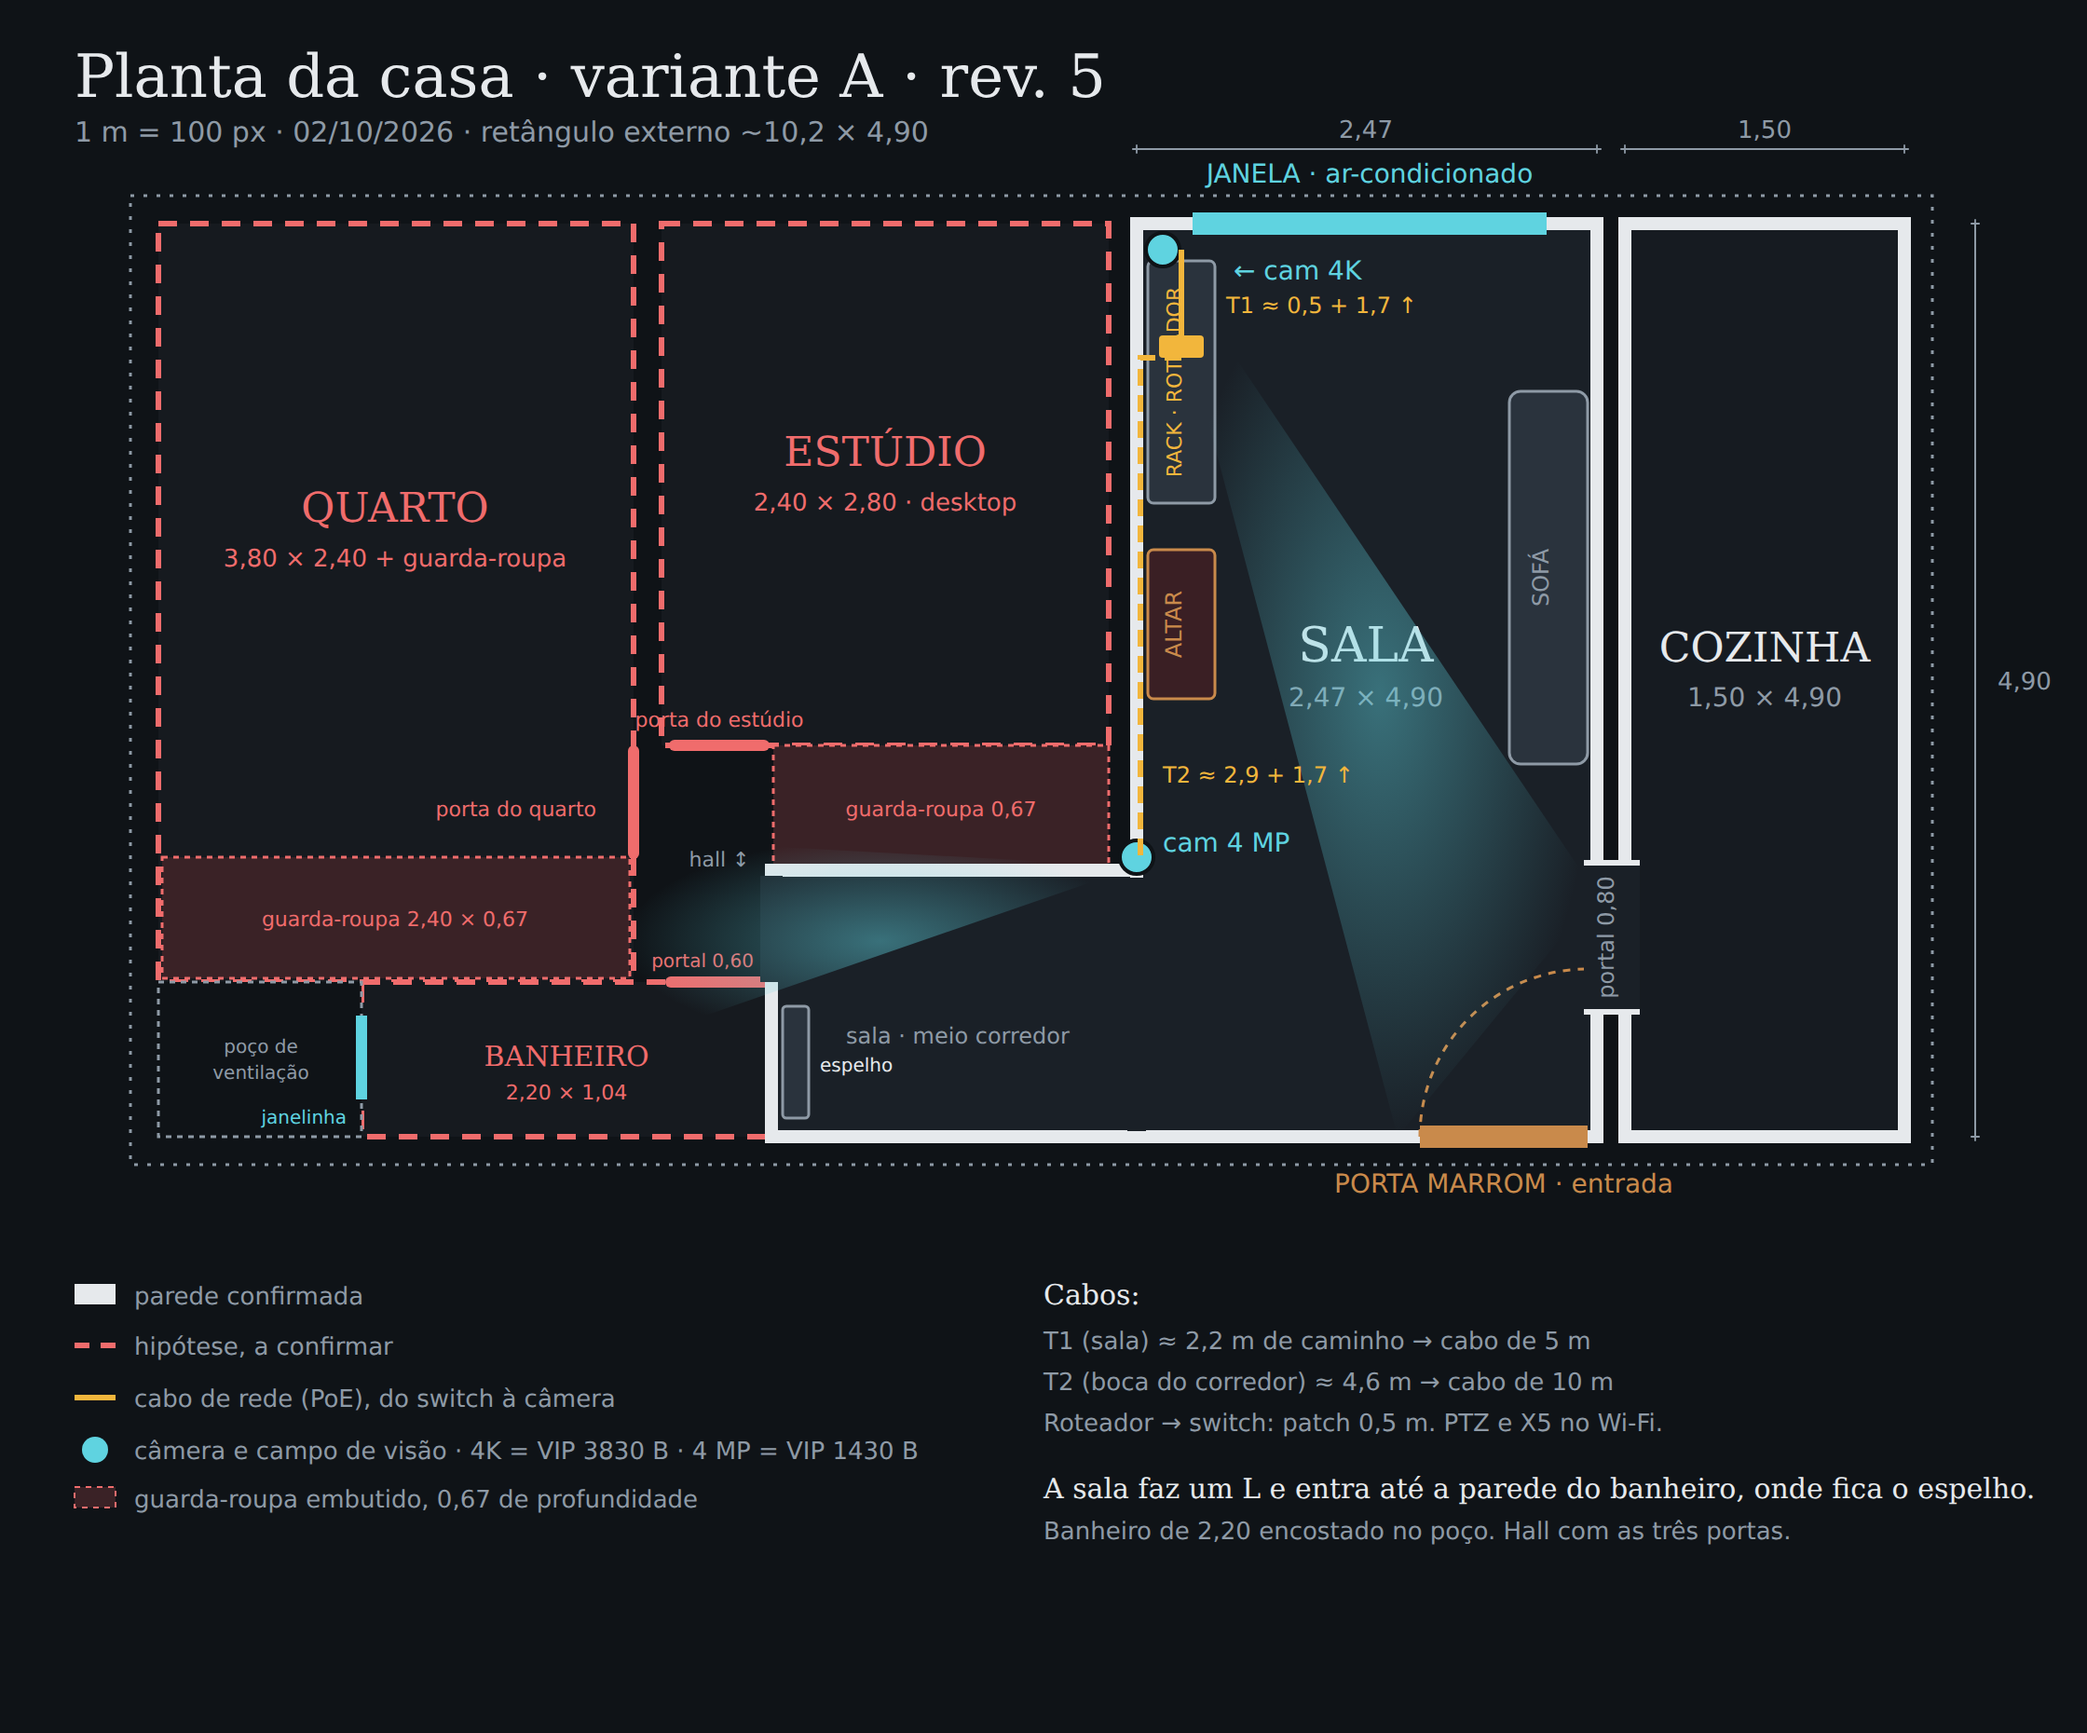
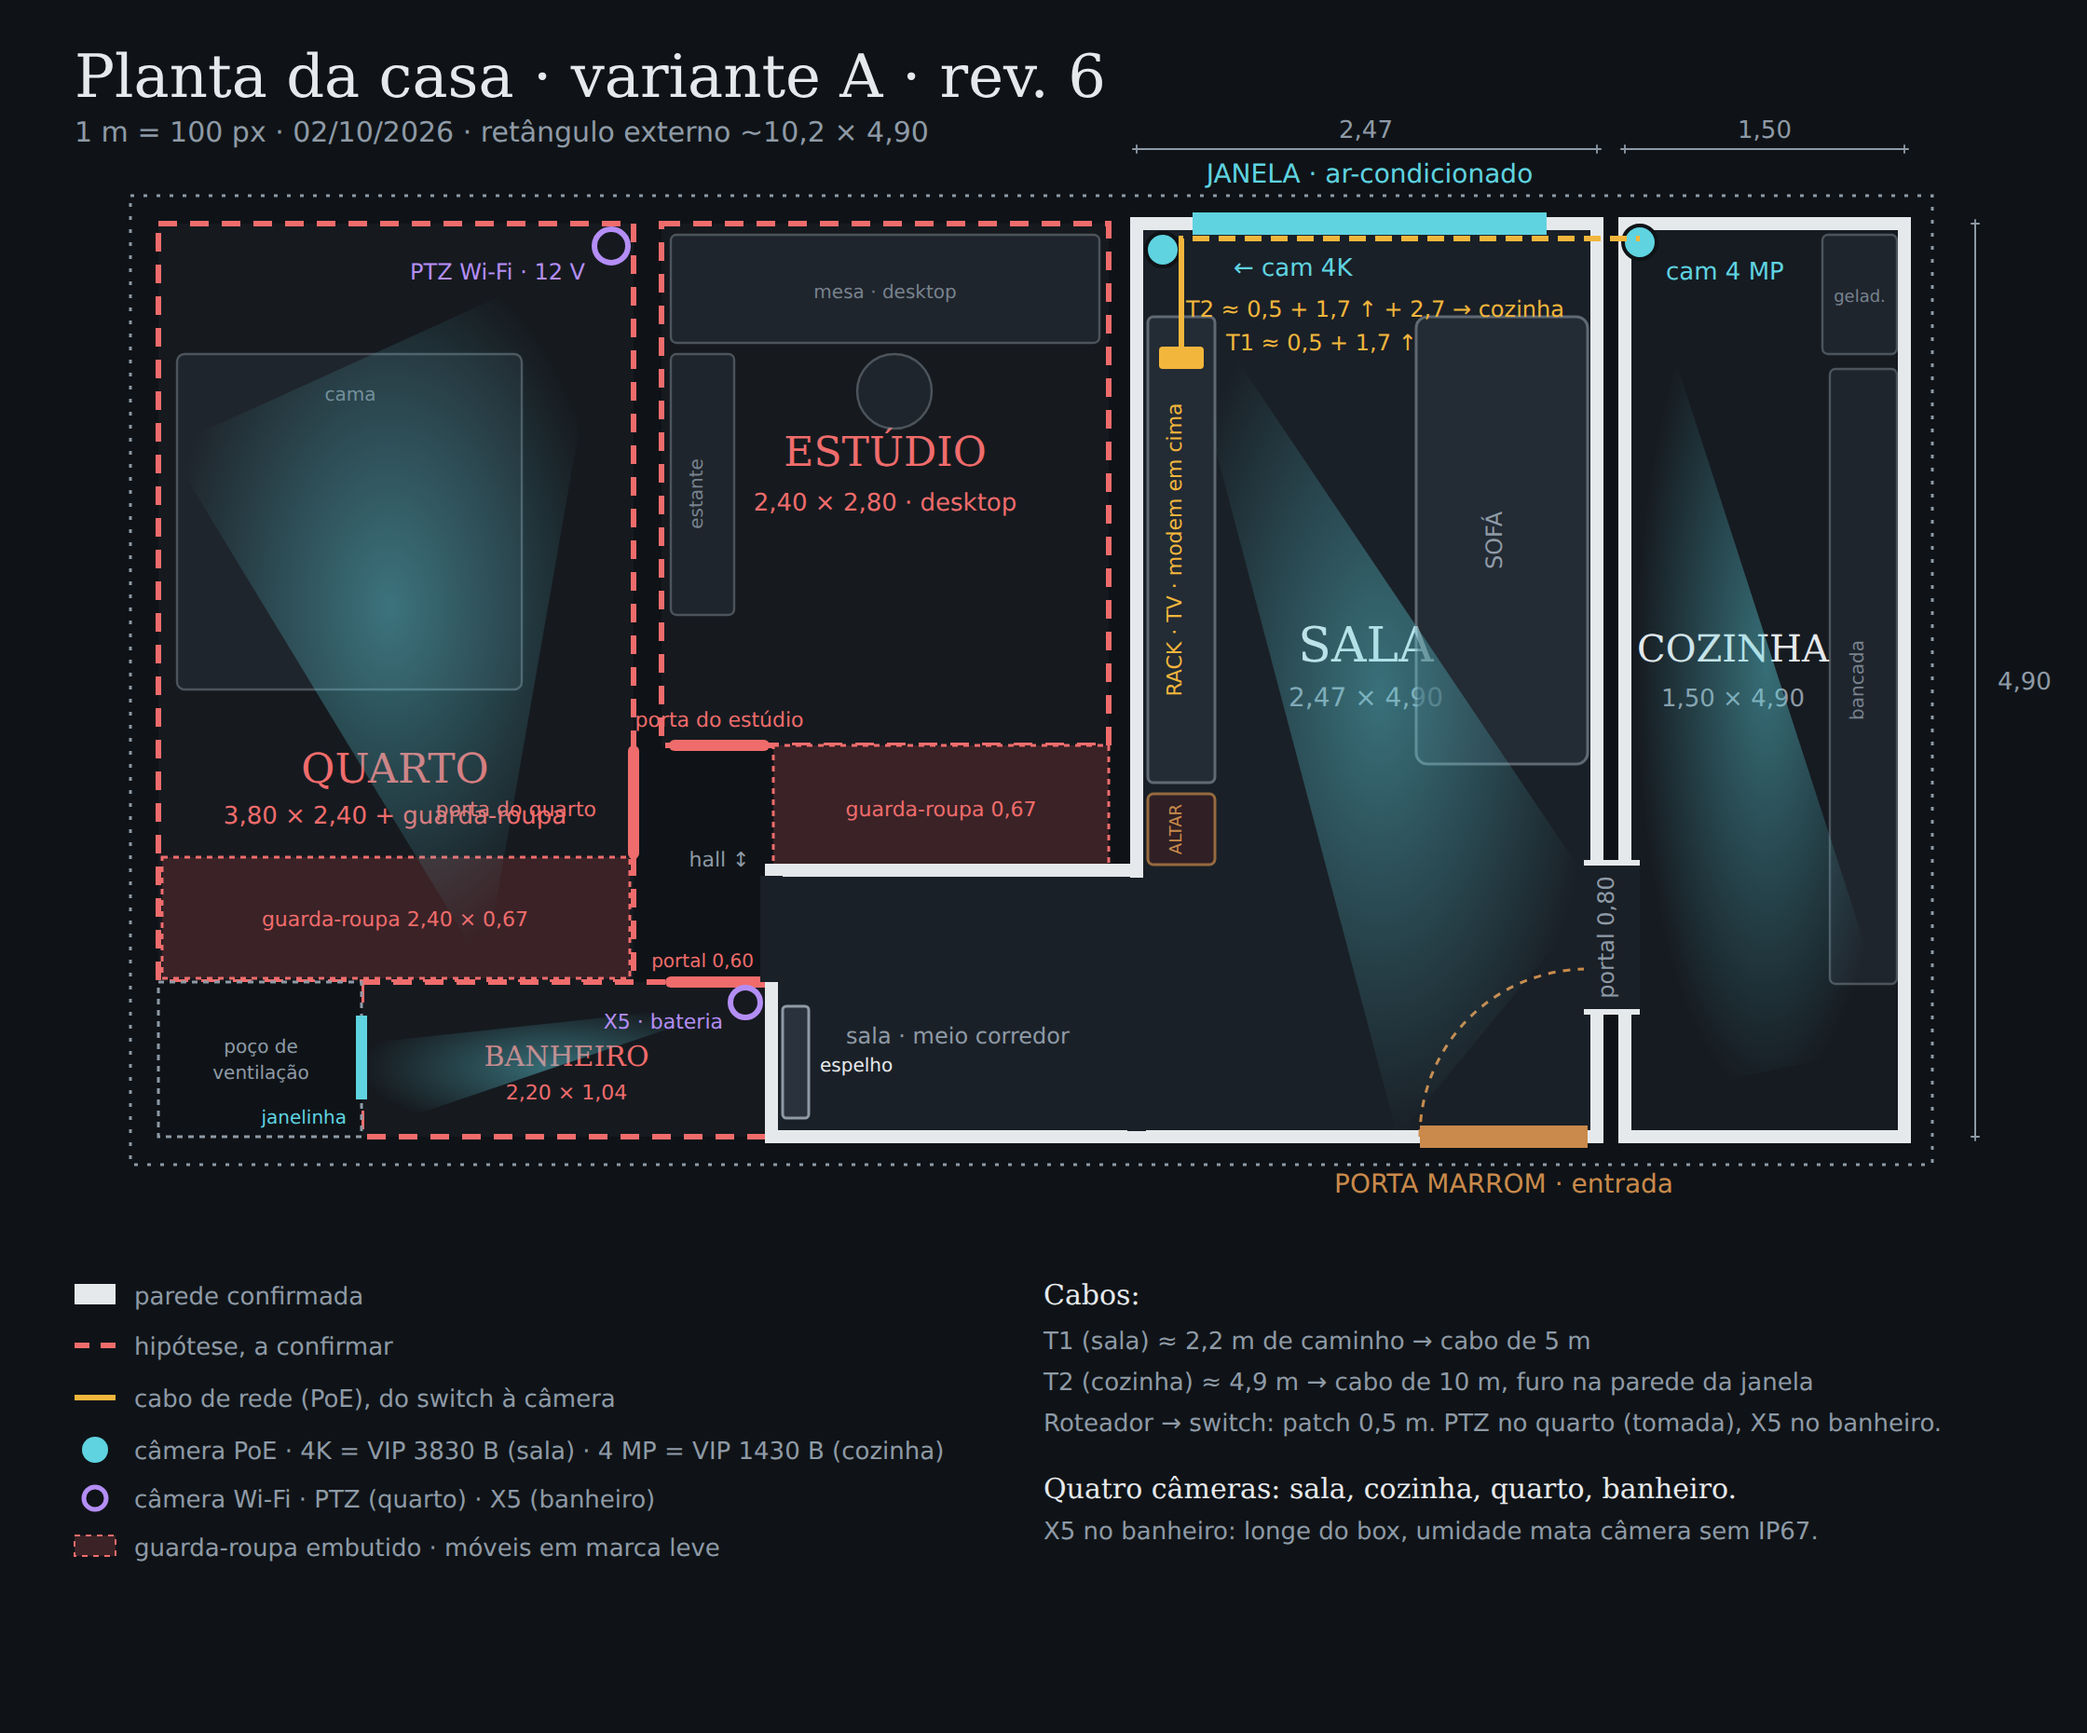
Planta rev. 6: móveis, rack maior, câmeras em sala, cozinha, quarto e banheiro; página de cabos atualizada
Claude-Session: https://claude.ai/code/session_01F69cVt87X4mSze32jm77sF

diff --git a/cameras/esquema-cabos.html b/cameras/esquema-cabos.html
@@ -66,7 +66,7 @@ footer{margin-top:40px;font-size:.8rem;color:var(--muted)}
 <div class="wrap">
   <div class="eyebrow">Visões Filmes · casa · 02/10/2026</div>
   <h1>Cabos das Câmeras</h1>
-  <p class="lede">Roteador Vivo e switch PoE ficam no rack da TV, na parede do altar. As duas câmeras ficam nessa mesma parede. Os campos já vêm com as medidas da planta; ajusta se a trena disser outra coisa. Os valores ficam salvos neste navegador.</p>
+  <p class="lede">Roteador Vivo e switch PoE ficam no rack da TV, na parede do altar. Quatro câmeras: 4K na sala, 4 MP na cozinha (as duas por cabo PoE), PTZ no quarto e X5 no banheiro (Wi-Fi). Os campos já vêm com as medidas da planta; ajusta se a trena disser outra coisa.</p>
 
   <section>
     <h2>Planta</h2>
@@ -157,11 +157,11 @@ footer{margin-top:40px;font-size:.8rem;color:var(--muted)}
       </div>
 
       <div class="panel">
-        <header><span class="tag cable">T2</span><strong>Switch → VIP 1430 B</strong><span class="tag">boca do corredor</span></header>
-        <div class="path">Sai do rack, desce pelo rodapé da parede do altar até a boca do corredor, sobe até a câmera, que fica na sala, em cima da abertura, olhando pra dentro do corredor. Nenhum cabo entra no corredor.</div>
+        <header><span class="tag cable">T2</span><strong>Switch → VIP 1430 B</strong><span class="tag">cozinha</span></header>
+        <div class="path">Sai do rack, sobe até o alto, corre pela parede da janela até a divisa com a cozinha, atravessa por um furo e chega à câmera no canto da cozinha, olhando pro portal. Alternativa sem furo: contornar pelo portal da cozinha, uns 3 m a mais.</div>
         <div class="fields">
-          <label>rack → boca do corredor (m)<input type="number" id="t2a" min="0" step="0.1" inputmode="decimal" placeholder="0,0" value="2.9"></label>
-          <label>dentro do corredor (m)<input type="number" id="t2b" min="0" step="0.1" inputmode="decimal" placeholder="0,0" value="0"></label>
+          <label>rack → subida (m)<input type="number" id="t2a" min="0" step="0.1" inputmode="decimal" placeholder="0,0" value="0.5"></label>
+          <label>parede da janela até a cozinha (m)<input type="number" id="t2b" min="0" step="0.1" inputmode="decimal" placeholder="0,0" value="2.7"></label>
           <label>subida até a câmera (m)<input type="number" id="t2c" min="0" step="0.1" inputmode="decimal" placeholder="0,0" value="1.7"></label>
           <label>fio longo que já tenho, se servir (m)<input type="number" id="t2have" min="0" step="0.5" inputmode="decimal" placeholder="0,0"></label>
         </div>
@@ -169,8 +169,8 @@ footer{margin-top:40px;font-size:.8rem;color:var(--muted)}
       </div>
 
       <div class="panel">
-        <header><span class="tag wifi">Wi-Fi</span><strong>PTZ e Mini X5</strong></header>
-        <div class="path">Sem cabo de rede. A PTZ precisa de tomada perto do ponto (fonte 12 V 2 A, a que existe). A X5 carrega por USB e volta pro lugar.</div>
+        <header><span class="tag wifi">Wi-Fi</span><strong>PTZ no quarto · Mini X5 no banheiro</strong></header>
+        <div class="path">Sem cabo de rede. A PTZ fica no quarto e precisa de tomada perto do ponto (fonte 12 V 2 A, a que existe). A X5 fica no banheiro, longe do box, e carrega por USB.</div>
         <div class="fields">
           <label>PTZ: distância do ponto à tomada (m)<input type="number" id="ptz" min="0" step="0.1" inputmode="decimal" placeholder="0,0"></label>
         </div>
@@ -200,7 +200,7 @@ footer{margin-top:40px;font-size:.8rem;color:var(--muted)}
     </div>
   </section>
 
-  <footer>Planta: variante A de 02/10/2026, fundo da casa ainda como hipótese. Microcartão SD dispensado: gravação pelo desktop (OBS ou app próprio).</footer>
+  <footer>Planta: variante A rev. 6 de 03/10/2026, fundo da casa ainda como hipótese. Microcartão SD dispensado: gravação pelo desktop (OBS ou app próprio).</footer>
 </div>
 
 <script>
